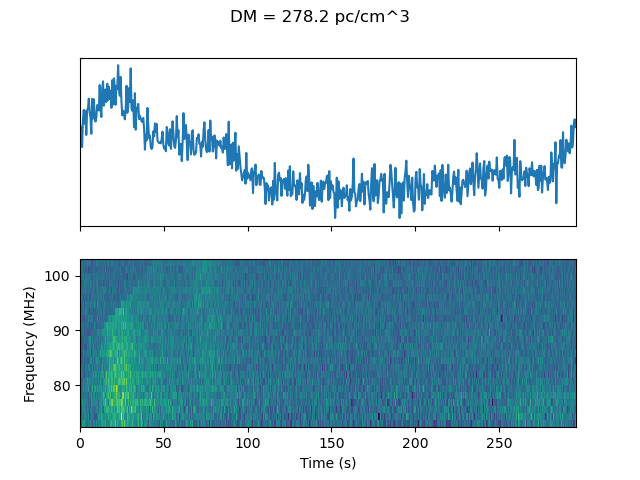
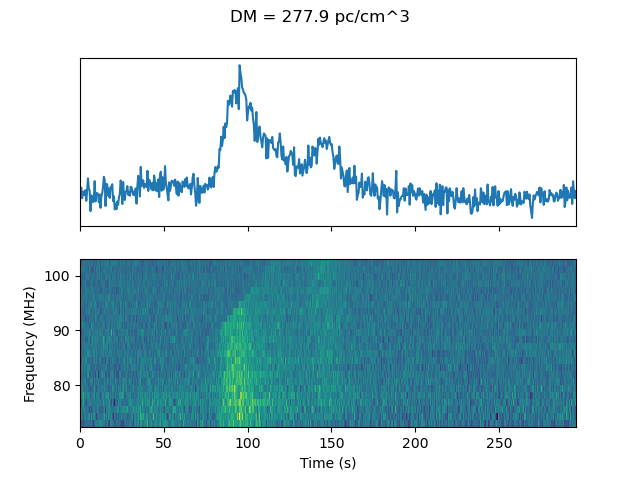
Updated one of the dedispersed spectrum plots with a different reference frequency. Also added an example script for dedispersing programmatically

Changed region(s): [[0.125, 0.5312, 0.9062, 0.9062], [0.125, 0.125, 0.9062, 0.4688], [0.4688, 0.0312, 0.5312, 0.0625]]

diff --git a/dynspec/dedisperse_dynspec.py b/dynspec/dedisperse_dynspec.py
@@ -98,11 +98,11 @@ class DMCurve():
     def __init__(self, dynspec):
         self.dynspec = dynspec
 
-    def run_dmtrials(self, dmtrials):
+    def run_dmtrials(self, dmtrials, freq_ref=None):
         self.dms = np.arange(*dmtrials)
         self.peak_snrs = []
         for dm in self.dms:
-            self.dynspec.dedisperse(dm)
+            self.dynspec.dedisperse(dm, freq_ref=freq_ref)
             self.dynspec.fscrunch()
             self.peak_snrs.append(np.max(self.dynspec.fscrunched))
         self.peak_snrs = np.array(self.peak_snrs)
@@ -132,7 +132,7 @@ def main(args):
     else:
         # Run a bunch of DM trials to create a DM curve
         dmcurve = DMCurve(dynspec)
-        dmcurve.run_dmtrials(args.dms)
+        dmcurve.run_dmtrials(args.dms, freq_ref=args.freq_ref)
         dmcurve.calc_best_dm()
 
         if args.no_plots == False:
@@ -146,7 +146,7 @@ def main(args):
         DM = dmcurve.best_dm[0]
 
     # Dedisperse the spectrum
-    dynspec.dedisperse(DM)
+    dynspec.dedisperse(DM, freq_ref=args.freq_ref)
     dynspec.fscrunch()
 
     # Plot the dynamic spectrum at the given/best DM
@@ -173,6 +173,8 @@ def main(args):
         lightcurve = np.array([timeaxis, dynspec.fscrunched]).T
         np.savetxt(args.lightcurve, lightcurve, header=header)
 
+    if args.output is not None:
+        np.savetxt(args.output, dynspec.dynspec)
 
 if __name__ == "__main__":
     # Parse the command line
@@ -180,6 +182,7 @@ if __name__ == "__main__":
     parser.add_argument('--dms', type=float, nargs='*', help='DM trials (pc/cm^3) [[start=0], stop, [step=1]] (i.e. same argument structure as s NumPy''s arange function). If a single value is given, the dynamic spectrum is dedispersed to this DM and no search is performed')
     parser.add_argument('--sample_time', type=float, default=0.5, help='The time of one sample (s)')
     parser.add_argument('--freqlo', type=float, default=139.52, help='The centre frequency of the lowest channel (MHz)')
+    parser.add_argument('--freq_ref', type=float, help='The reference frequency used during dedispersion (MHz) (default = centre frequency)')
     parser.add_argument('--bw', type=float, default=1.28, help='The channel width (MHz)')
     parser.add_argument('--output', type=argparse.FileType('w'), help='The file to which the dedispersed dynamic spectrum will be written')
     parser.add_argument('--input', type=str, help='The (NumPy-readable) file containing the input dynamic spectrum')

diff --git a/dynspec/dedisperse_programmatically_example.py b/dynspec/dedisperse_programmatically_example.py
@@ -1,0 +1,14 @@
+import matplotlib.pyplot as plt
+import dedisperse_dynspec as dd
+
+# Load a "raw" dynamic spectrum from a CSV file
+dynspec = dd.Dynspec('1342623792_dyn_dynamic_spectrum.csv', sample_time=0.5, freqlo=72.955, bw=1.28, time_offset=1342623792, transpose=True)
+
+# Dedisperse it, using an arbitrary reference frequency
+dynspec.dedisperse(285, freq_ref=72.955)
+# ...the dedispersed spectrum is now in dynspec.dynspec (NumPy array)
+
+# Plot it
+fig, ax = plt.subplots(1,1)
+dynspec.plot(ax)
+plt.show()

diff --git a/dynspec/README.md b/dynspec/README.md
@@ -209,7 +209,7 @@ python dedisperse_dynspec.py --transpose --sample_time 0.5 --bw 1.28 --freqlo 20
 #### 1342623792
 
 ```
-python dedisperse_dynspec.py --transpose --sample_time 0.5 --bw 1.28 --freqlo 72.955 --dms 150 401 5 --input 1342623792_dyn_dynamic_spectrum.csv
+python dedisperse_dynspec.py --transpose --sample_time 0.5 --bw 1.28 --freqlo 72.955 --dms 150 401 5 --input 1342623792_dyn_dynamic_spectrum.csv --freq_ref 72.315
 ```
 
 ![1342623792 dedispersed spectrum](images/1342623792_dedispersed.png)
